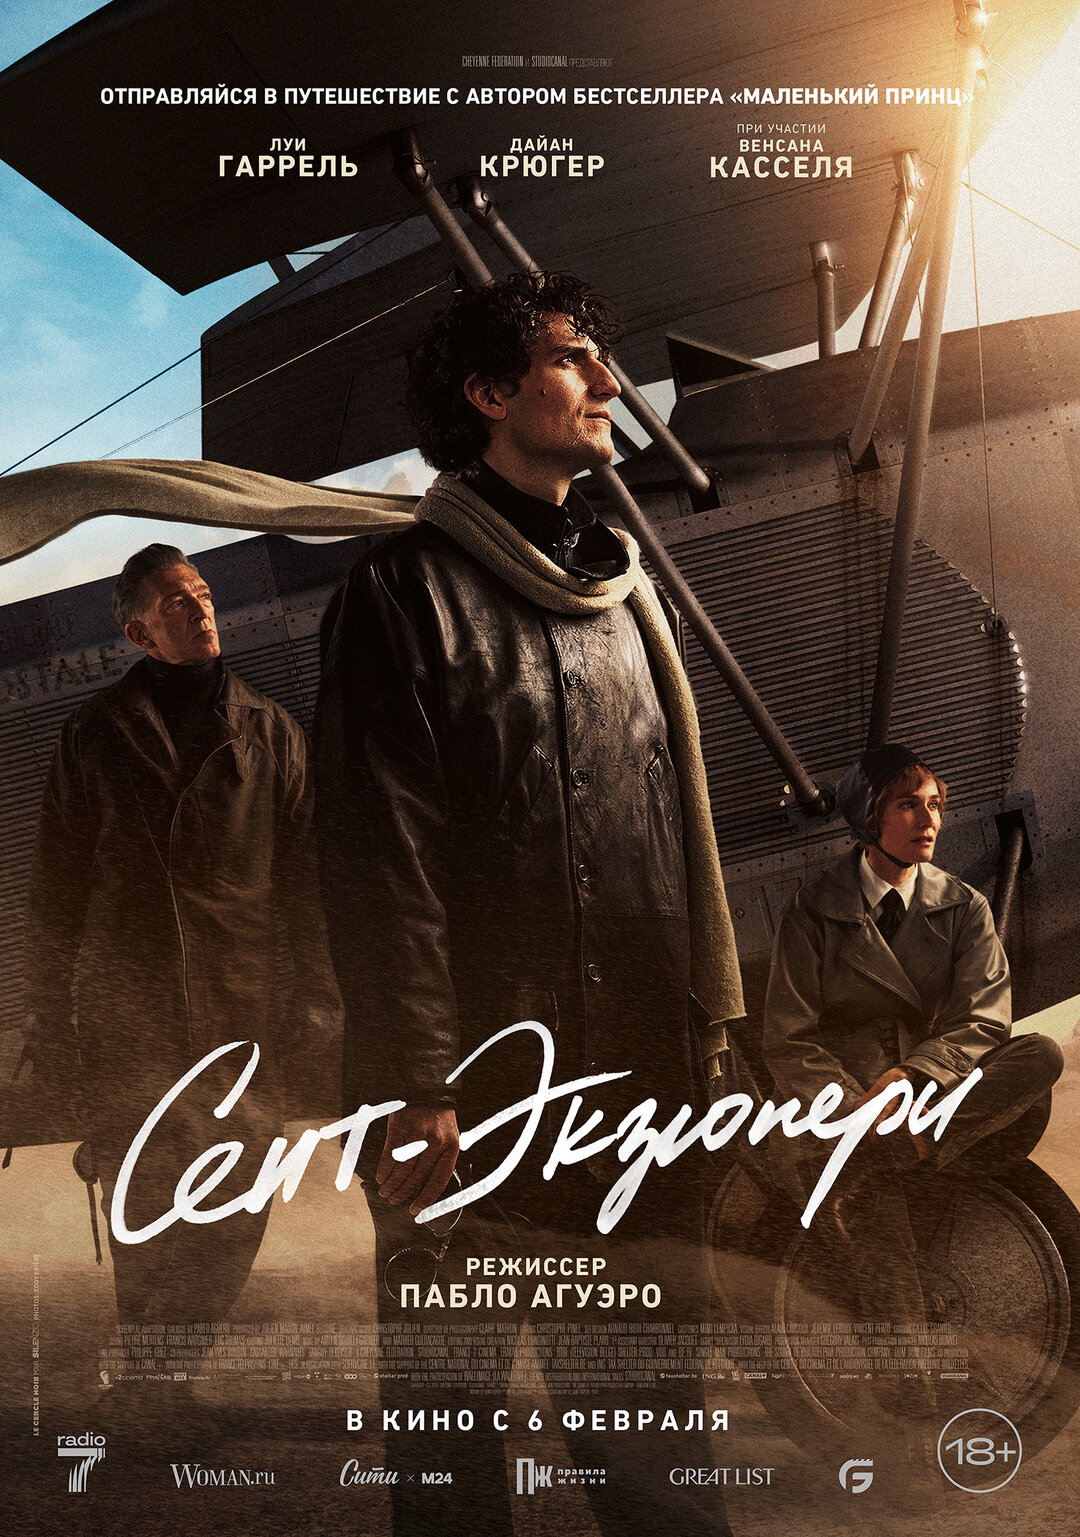
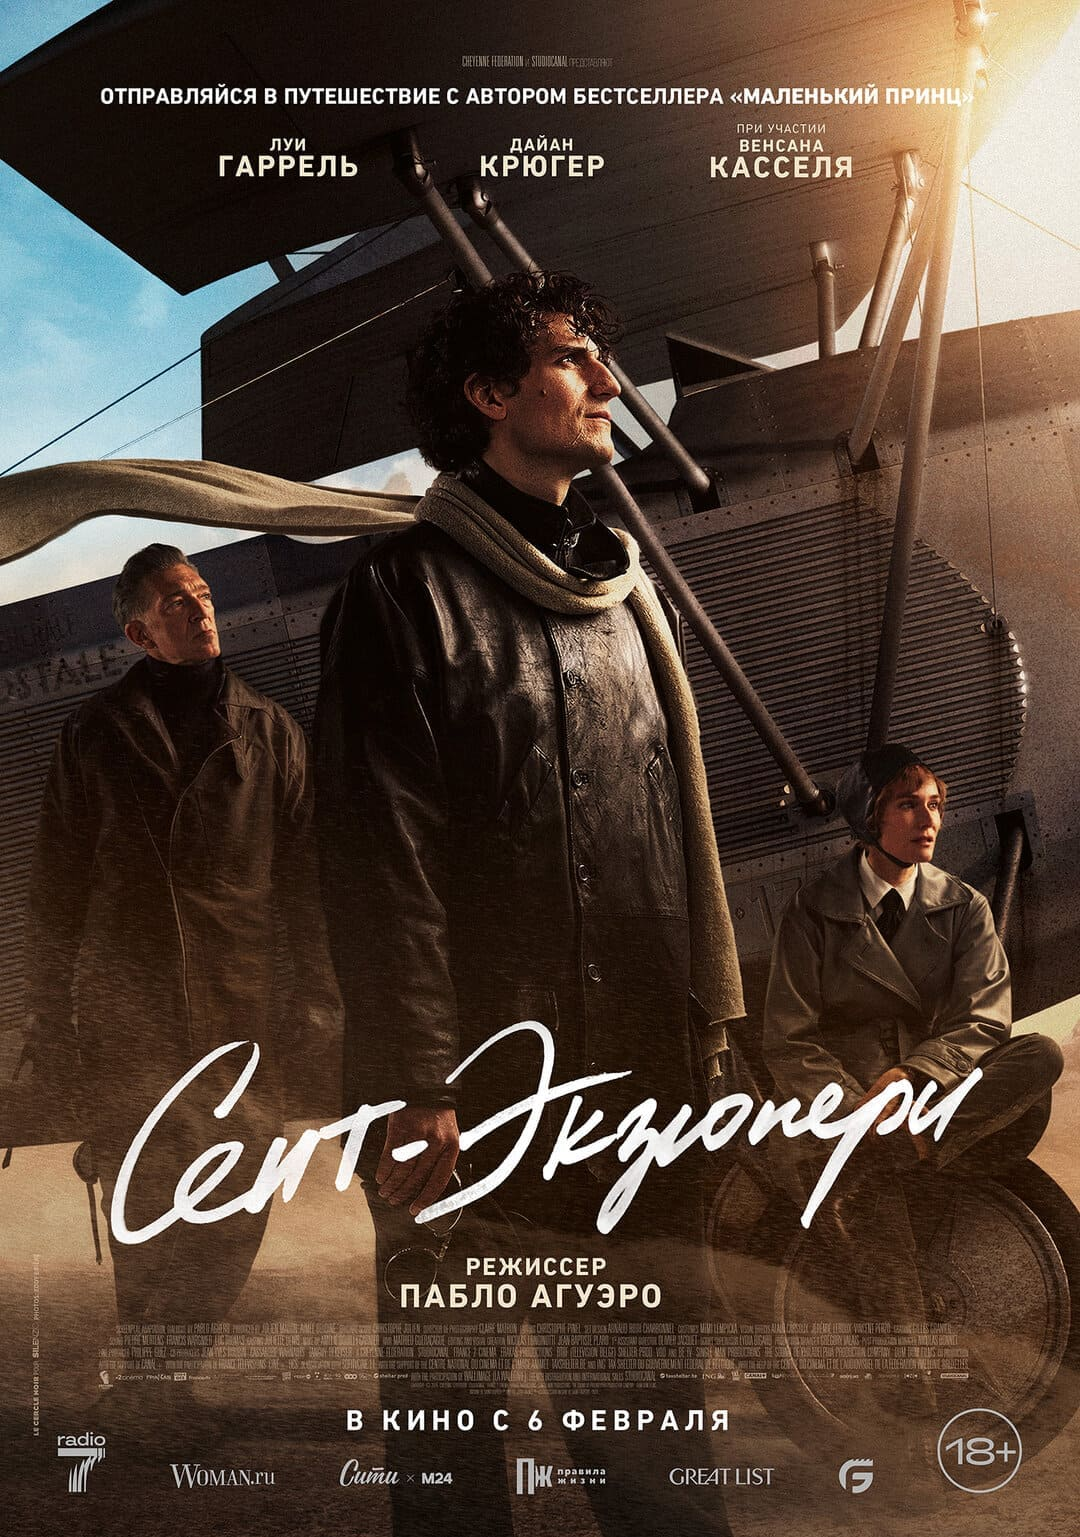
fix: an array of filters instead of one, compressed default poster image

diff --git a/server/Microservices/MovieService/MovieService.Application/Handlers/Queries/Movies/GetAllMovies/GetAllMoviesQueryHandler.cs b/server/Microservices/MovieService/MovieService.Application/Handlers/Queries/Movies/GetAllMovies/GetAllMoviesQueryHandler.cs
@@ -3,7 +3,6 @@
 using MediatR;
 
 using MovieService.Application.DTOs;
-using MovieService.Application.Interfaces.Caching;
 using MovieService.Domain.Interfaces.Repositories.UnitOfWork;
 using MovieService.Domain.Models;
 
@@ -16,22 +15,28 @@ public class GetAllMoviesQueryHandler(
 	) : IRequestHandler<GetAllMoviesQuery, PaginationWrapperDto<MovieModel>>
 {
 	private readonly IUnitOfWork _unitOfWork = unitOfWork;
-	private readonly IMapper _mapper = mapper;
 	//private readonly IRedisCacheService _redisCacheService = redisCacheService;
+	private readonly IMapper _mapper = mapper;
 
 	public async Task<PaginationWrapperDto<MovieModel>> Handle(GetAllMoviesQuery request, CancellationToken cancellationToken)
 	{
-		var totalMovies = await _unitOfWork.MoviesRepository.GetCount();
+		if (request.Filters.Length != request.FilterValues.Length)
+			throw new InvalidOperationException("The number of Filters and FilterValues must be the same.");
+
+		var filters = request.Filters
+			.Zip(request.FilterValues, (field, value) => new FilterDto(field, value))
+			.ToList();
 
 		string cacheKey = @$"movies_
-			{request.Filter}_
-			{request.FilterValue}_
-			{request.SortBy}_
-			{request.SortDirection}_
-			{request.Offset}_
-			{request.Limit}";
+            {string.Join("_", filters.Select(f => $"{f.Field}_{f.Value}"))}_
+            {request.SortBy}_
+            {request.SortDirection}_
+            {request.Offset}_
+            {request.Limit}";
 
 		//var cachedMovies = await _redisCacheService.GetValueAsync<IList<MovieModel>>(cacheKey);
+
+		//var totalMovies = cachedMovies.Count();
 
 		//if (cachedMovies != null)
 		//{
@@ -44,14 +49,18 @@ public class GetAllMoviesQueryHandler(
 
 		var query = _unitOfWork.MoviesRepository.Get();
 
-		if (!string.IsNullOrWhiteSpace(request.Filter) && !string.IsNullOrWhiteSpace(request.FilterValue))
+		foreach (var filter in filters)
 		{
-			query = request.Filter!.ToLower() switch
+			if (!string.IsNullOrWhiteSpace(filter.Field) && !string.IsNullOrWhiteSpace(filter.Field))
 			{
-				"genre" => _unitOfWork.MoviesRepository.FilterByGenre(query, request.FilterValue.ToLower()),
-				"producer" => query.Where(m => m.Producer.ToLower().Contains(request.FilterValue.ToLower())),
-				_ => throw new InvalidOperationException($"Invalid filter field '{request.Filter}'.")
-			};
+				query = filter.Field.ToLower() switch
+				{
+					"genre" => _unitOfWork.MoviesRepository.FilterByGenre(query, filter.Value.ToLower()),
+					"producer" => query.Where(m => m.Producer.ToLower().Contains(filter.Value.ToLower())),
+					"title" => query.Where(m => m.Title.ToLower().Contains(filter.Value.ToLower())),
+					_ => throw new InvalidOperationException($"Invalid filter field '{filter.Field}'.")
+				};
+			}
 		}
 
 		if (request.SortDirection.ToLower() == "asc")
@@ -87,6 +96,8 @@ public class GetAllMoviesQueryHandler(
 		var movieModels = _mapper.Map<IList<MovieModel>>(movies);
 
 		//await _redisCacheService.SetValueAsync(cacheKey, movieModels, TimeSpan.FromMinutes(10));
+
+		var totalMovies = movies.Count;
 
 		return new PaginationWrapperDto<MovieModel>(
 			movieModels,

diff --git a/server/Microservices/MovieService/MovieService.API/Controllers/Http/MovieController.cs b/server/Microservices/MovieService/MovieService.API/Controllers/Http/MovieController.cs
@@ -1,4 +1,6 @@
-using MediatR;
+using MapsterMapper;
+
+using MediatR;
 
 using Microsoft.AspNetCore.Mvc;
 
@@ -24,23 +26,30 @@ public class MovieController : ControllerBase
 {
 	private readonly IMediator _mediator;
 	private readonly ILogger<MovieController> _logger;
+	private readonly IMapper _mapper;
 
-	public MovieController(IMediator mediator, ILogger<MovieController> logger)
+	public MovieController(
+		IMediator mediator,
+		ILogger<MovieController> logger,
+		IMapper mapper)
 	{
 		_mediator = mediator;
 		_logger = logger;
+		_mapper = mapper;
 	}
 
 	[HttpGet("/movies")]
-	public async Task<IActionResult> Get([FromQuery] GetMovieRequest request, CancellationToken cancellationToken)
+	public async Task<IActionResult> Get(
+		[FromQuery] GetMovieRequest request,
+		CancellationToken cancellationToken)
 	{
 		_logger.LogInformation("Fetch all movies.");
 
 		var paginatedMovies = await _mediator.Send(new GetAllMoviesQuery(
 			request.Limit,
 			request.Offset,
-			request.Filter,
-			request.FilterValue,
+			request.Filters,
+			request.FilterValues,
 			request.SortBy,
 			request.SortDirection), cancellationToken);
 

diff --git a/server/Microservices/MovieService/MovieService.Application/Handlers/Queries/Movies/GetAllMovies/GetAllMoviesQuery.cs b/server/Microservices/MovieService/MovieService.Application/Handlers/Queries/Movies/GetAllMovies/GetAllMoviesQuery.cs
@@ -5,18 +5,10 @@ using MovieService.Domain.Models;
 
 namespace MovieService.Application.Handlers.Queries.Movies.GetAllMovies;
 
-public class GetAllMoviesQuery(
-	byte limit,
-	byte offset,
-	string? filter,
-	string? filterValue,
-	string sortBy,
-	string sortDirection) : IRequest<PaginationWrapperDto<MovieModel>>
-{
-	public byte Limit { get; private set; } = limit;
-	public byte Offset { get; private set; } = offset;
-	public string? Filter { get; private set; } = filter;
-	public string? FilterValue { get; private set; } = filterValue;
-	public string SortBy { get; private set; } = sortBy;
-	public string SortDirection { get; private set; } = sortDirection;
-}
+public record GetAllMoviesQuery(
+	byte Limit,
+	byte Offset,
+	string[] Filters,
+	string[] FilterValues,
+	string SortBy,
+	string SortDirection) : IRequest<PaginationWrapperDto<MovieModel>>;

diff --git a/server/Microservices/MovieService/MovieService.API/Contracts/Requests/GetMovieRequest.cs b/server/Microservices/MovieService/MovieService.API/Contracts/Requests/GetMovieRequest.cs
@@ -1,6 +1,9 @@
 using System.ComponentModel;
 
+using Microsoft.AspNetCore.Mvc;
+
 namespace MovieService.API.Contracts.Requests;
+
 public class GetMovieRequest
 {
 	[DefaultValue(10)]
@@ -9,11 +12,11 @@ public class GetMovieRequest
 	[DefaultValue(1)]
 	public byte Offset { get; set; }
 
-	[DefaultValue(null)]
-	public string? Filter { get; set; }
+	[FromQuery(Name = "Filter")]
+	public string[] Filters { get; set; } = [];
 
-	[DefaultValue(null)]
-	public string? FilterValue { get; set; }
+	[FromQuery(Name = "FilterValue")]
+	public string[] FilterValues { get; set; } = [];
 
 	[DefaultValue("title")]
 	public string SortBy { get; set; }

diff --git a/server/Microservices/MovieService/MovieService.Application/Handlers/Commands/Movies/CreateMovie/CreateMovieCommandHandler.cs b/server/Microservices/MovieService/MovieService.Application/Handlers/Commands/Movies/CreateMovie/CreateMovieCommandHandler.cs
@@ -3,8 +3,6 @@
 using MediatR;
 
 using MovieService.Application.Extensions;
-using MovieService.Application.Interfaces.Caching;
-using MovieService.Domain;
 using MovieService.Domain.Entities;
 using MovieService.Domain.Entities.Movies;
 using MovieService.Domain.Exceptions;

diff --git a/server/Microservices/MovieService/MovieService.Application/DTOs/FilterDto.cs b/server/Microservices/MovieService/MovieService.Application/DTOs/FilterDto.cs
@@ -1,0 +1,13 @@
+namespace MovieService.Application.DTOs;
+
+public struct FilterDto
+{
+	public string Field { get; set; }
+	public string Value { get; set; }
+
+	public FilterDto(string field, string value)
+	{
+		Field = field;
+		Value = value;
+	}
+}
